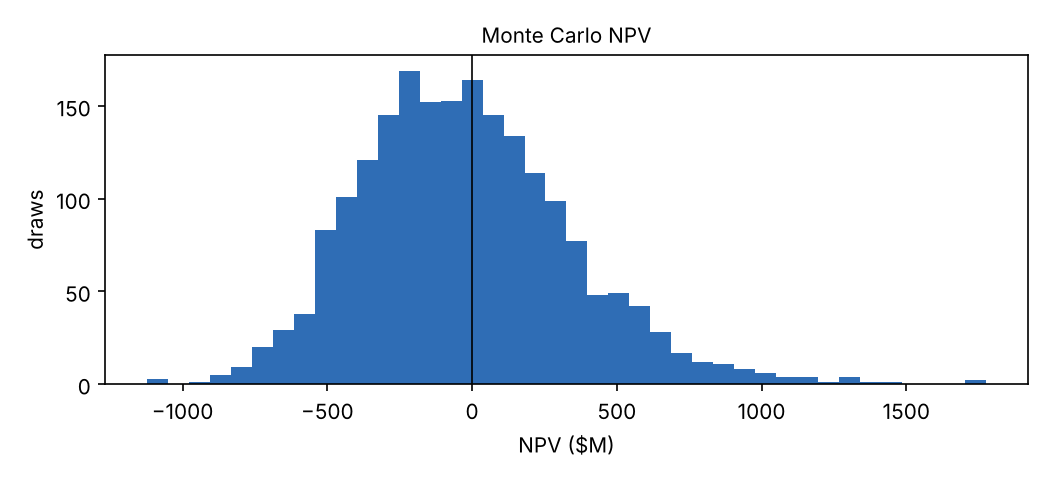
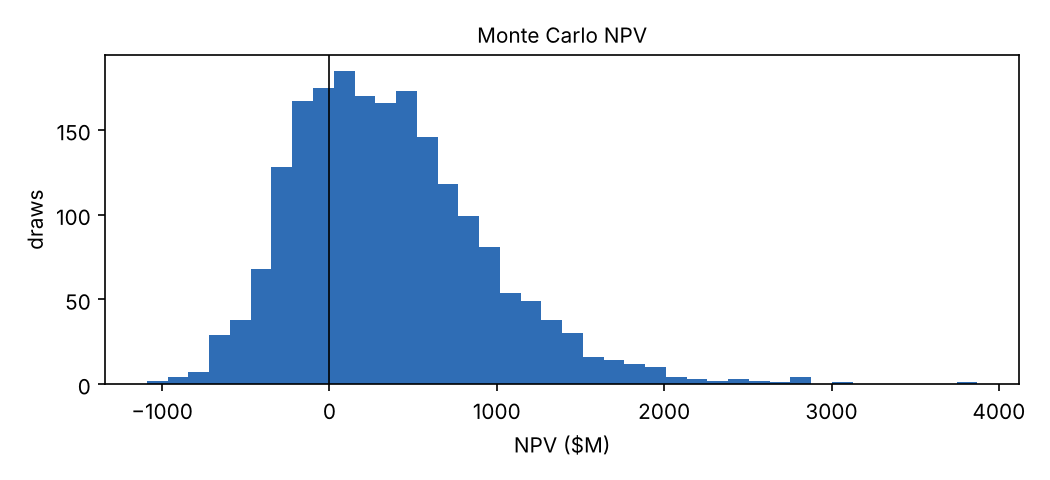
Consistency audit: shared remaining-life rule and framework sync
Counts the remaining life of factories built within the horizon (no new
builds, only while cash stays positive), the same rule as the thermosyphon
and SAF TEAs; syncs the shared framework; regenerates results and README.

Claude-Session: https://claude.ai/code/session_01RgAFQLSZ2jN8BhTUDBM6nH

diff --git a/tea/prefab_homes.py b/tea/prefab_homes.py
@@ -220,21 +220,31 @@ def run(v) -> StandardResult:
     p_btr = p_sqft * (1 - v["btr.price_discount"])
 
     experience = v["learning.first_year_experience"]
-    prev_factories = 0
+    build_years: list[int] = []
+    life = int(v["factory.life"])
+    tail: list[float] = []
+    tail_open = True
     cum_retail_units = 0.0
     cumulative = 0.0
     learning_investment = 0.0
     noak_year = None
     rows: list[YearRow] = []
 
-    for t in range(1, horizon + 1):
+    # Years after the horizon count the remaining life of factories already built (same rule in all
+    # three finalist TEAs): no new factories, factories retire at end of life, stop when cash turns negative.
+    for t in range(1, horizon + life + 1):
+        if t > horizon and not tail_open:
+            break
         k = t - rd
         streams = {s: 0.0 for s in ("homes", "btr", "adus", "energy", "vpp", "service", "panels")}
         capex = 0.0
-        if k >= 1:
+        active = sum(1 for b in build_years if t - b < life)
+        if k >= 1 and (t <= horizon or active > 0):
             phase = "commercial"
-            factories = sched[min(k, len(sched)) - 1]
-            new = max(factories - prev_factories, 0)
+            target = sched[min(k, len(sched)) - 1] if t <= horizon else active
+            new = max(target - active, 0)
+            build_years += [t] * new
+            factories = active + new
             capex = new * v["factory.capex"]
             c = v["factory.capacity"]
             # Contracted BTR volume fills its share of each line first; retail fills the rest at the retail rate.
@@ -243,7 +253,6 @@ def run(v) -> StandardResult:
             btr = min(mature * btr_share + min(new * c * btr_share, new_total), btr_cap, cap)
             retail = mature * (1 - btr_share) * v["factory.utilization"] + max(new_total - new * c * btr_share, 0.0)
             retail = min(retail, max(cap - btr, 0.0))
-            prev_factories = factories
         else:
             phase, factories, btr, retail = "R&D", 0, 0.0, 0.0
         slots = btr + retail
@@ -279,8 +288,15 @@ def run(v) -> StandardResult:
         gross = revenue - cos
         opex = v["company.rd_opex"] if phase == "R&D" else v["company.corporate_opex"] + revenue * v["company.ga_share"]
         ebit = gross - opex
+        if t > horizon:
+            if ebit - capex > 0:
+                tail.append(ebit - capex)
+            else:
+                tail_open = False
+            continue
         cumulative += ebit - capex
         rows.append(YearRow(t, phase, revenue, cos, gross, opex, ebit, cumulative, idx, streams, capex))
+        final_homes = units
 
         experience += slots  # home-equivalents of line time
         cum_retail_units += houses + adus
@@ -288,8 +304,8 @@ def run(v) -> StandardResult:
         if noak_year is None and experience >= v["learning.noak_experience"]:
             noak_year = t
 
-    final_homes = units
     cash = [r.ebit - r.capex for r in rows]
+    npv_horizon = npv(rate, cash)
     went_negative, breakeven_year = False, None
     for r in rows:
         if r.cumulative_cash < 0:
@@ -329,8 +345,8 @@ def run(v) -> StandardResult:
     return StandardResult(
         project="Automated factories for electrified prefab homes",
         years=rows,
-        npv=npv(rate, cash),
-        irr=irr(cash),
+        npv=npv(rate, cash + tail),
+        irr=irr(cash + tail),
         peak_cash_need=-min(0.0, min(r.cumulative_cash for r in rows)),
         breakeven_year=breakeven_year,
         full_scale_revenue=rows[-1].revenue,
@@ -344,7 +360,9 @@ def run(v) -> StandardResult:
             f"Market check: year-{horizon} output is {final_homes:,.0f} homes/yr, vs ~30,000 modular + panelized homes built in the US in 2025 (3% of single-family).",
             "Energy package by region: each region gets the package that saves the owner most once it is financed in the mortgage, or none. Backup-power value is not counted.",
             "Cost multipliers are relative to the site-built construction cost (NAHB 2024: $162/sq ft); 'Cost vs incumbent' in the cash flow includes transport and set.",
-            "Operating profit is before depreciation; factory capex is a separate cash outflow. No taxes, working capital or terminal value.",
+            "Operating profit is before depreciation; factory capex is a separate cash outflow. Pre-tax, no working capital.",
+            f"NPV includes the remaining life of factories built within the horizon (no new factories after it) "
+            f"while cash stays positive; {len(tail)} tail years counted. NPV over the {horizon}-yr horizon alone: ${npv_horizon / 1e6:,.0f}M.",
             "Federal 45L and 25D credits ended in 2026, so no subsidies are counted.",
             "Build-to-rent: proposed federal limits on institutional home buyers could shrink this market; not modeled.",
             "Site system: an adjustable foundation must still meet frost-depth or engineered-foundation rules and count as a 'permanent foundation' for lenders and appraisers; not modeled.",

diff --git a/scripts/run_tea.py b/scripts/run_tea.py
@@ -1,8 +1,8 @@
 """Run any project's TEA through the standard framework.
 
 Usage:
-    python scripts/run_tea.py thermosyphon_platform
-    python scripts/run_tea.py thermosyphon_platform --inputs inputs/my_case.toml --out results/my_case
+    python scripts/run_tea.py saf_msw_ft
+    python scripts/run_tea.py saf_msw_ft --inputs inputs/my_case.toml --out results/my_case
 """
 from __future__ import annotations
 
@@ -18,6 +18,15 @@ from tea.framework.report import write_report  # noqa: E402
 from tea.inputs import base_values, load_meta, load_params  # noqa: E402
 
 
+def load_project_params(inputs: Path) -> dict:
+    """Conventions, then any files listed in the project's [meta] include = [...], then the project file."""
+    params = load_params(ROOT / "inputs" / "conventions.toml")
+    for name in load_meta(inputs).get("include", []):
+        params.update(load_params(ROOT / "inputs" / name))
+    params.update(load_params(inputs))
+    return params
+
+
 def main() -> None:
     ap = argparse.ArgumentParser(description=__doc__)
     ap.add_argument("project", help="module name in tea/, e.g. thermosyphon_platform")
@@ -29,7 +38,7 @@ def main() -> None:
     mod = importlib.import_module(f"tea.{args.project}")
     inputs = Path(args.inputs or ROOT / "inputs" / f"{args.project}.toml")
     out = Path(args.out or ROOT / "results" / args.project)
-    params = {**load_params(ROOT / "inputs" / "conventions.toml"), **load_params(inputs)}
+    params = load_project_params(inputs)
     meta = {**load_meta(ROOT / "inputs" / "conventions.toml"), **load_meta(inputs)}
     v = base_values(params)
     result = mod.run(v)

diff --git a/tea/framework/report.py b/tea/framework/report.py
@@ -74,7 +74,8 @@ def _write_csv(path: Path, rows: list[dict]) -> None:
     if not rows:
         return
     with open(path, "w", newline="") as f:
-        w = csv.DictWriter(f, fieldnames=list(rows[0]))
+        fields = list(dict.fromkeys(k for r in rows for k in r))  # union of keys, first-seen order
+        w = csv.DictWriter(f, fieldnames=fields, restval=0)
         w.writeheader()
         w.writerows(rows)
 

diff --git a/results/prefab_homes/summary.md b/results/prefab_homes/summary.md
@@ -12,15 +12,15 @@
 
 | Metric | Value |
 |---|---|
-| NPV | $360.5M |
-| IRR | 28% |
-| Probability NPV > 0 (Monte Carlo) | 44% |
+| NPV | $876.1M |
+| IRR | 32% |
+| Probability NPV > 0 (Monte Carlo) | 71% |
 | Peak cash need | $237.2M |
 | Cash breakeven year | 10 |
 | Revenue in final year | $2.02B |
 | NOAK reached in year | 8 |
 | Extra cost paid while learning (FOAK to NOAK) | $295.5M |
-| NPV if costs started at NOAK (no learning period) | $537.1M |
+| NPV if costs started at NOAK (no learning period) | $1.05B |
 
 ## Customer cost vs BAU
 
@@ -119,29 +119,29 @@ Revenue in the final year by stream:
 
 | Question | Answer | Base input |
 |---|---|---|
-| Factory capex for NPV = 0 | 36,587,965 | 10,000,000 |
-| Factory utilization for NPV = 0 | 0.451 | 0.8 |
-| Price discount vs conventional modular for NPV = 0 | 0.143 | 0.05 |
+| Factory capex for NPV = 0 | 74,621,496 | 10,000,000 |
+| Factory utilization for NPV = 0 | 0.329 | 0.8 |
+| Price discount vs conventional modular for NPV = 0 | 0.185 | 0.05 |
 | MEP cost reduction for NPV = 0 | no crossing in range | 0.25 |
-| Foundation cost reduction for NPV = 0 | -0.486 | 0.4 |
+| Foundation cost reduction for NPV = 0 | -0.906 | 0.4 |
 
 ## Scenarios
 
 | Scenario | NPV | Final-year revenue | Peak cash need |
 |---|---|---|---|
-| With build-to-rent offtake (25% of line, 7% discount) | $351.7M | $2.08B | $249.0M |
-| With build-to-rent offtake at a 3% discount | $403.9M | $2.11B | $232.7M |
-| Weak retail demand (60% fill), no build-to-rent | $153.3M | $1.54B | $262.0M |
-| Weak retail demand (60% fill), with build-to-rent | $197.4M | $1.72B | $269.0M |
-| Conventional site work and crane set (no site system) | $85.1M | $2.02B | $282.7M |
-| Site system, but joints miss tolerance | $308.7M | $2.02B | $243.1M |
-| Homes only (no add-ons) | $346.1M | $1.99B | $240.8M |
-| + Energy package | $358.8M | $2.02B | $237.3M |
-| + Energy package + VPP | $358.9M | $2.02B | $237.3M |
-| Base case (energy + VPP + service) | $360.5M | $2.02B | $237.2M |
-| Base + panels for other builders | $385.7M | $2.12B | $229.2M |
-| Base + ADU line | $415.0M | $2.06B | $222.5M |
-| All add-ons | $440.3M | $2.15B | $217.8M |
+| With build-to-rent offtake (25% of line, 7% discount) | $870.9M | $2.08B | $249.0M |
+| With build-to-rent offtake at a 3% discount | $955.3M | $2.11B | $232.7M |
+| Weak retail demand (60% fill), no build-to-rent | $503.2M | $1.54B | $262.0M |
+| Weak retail demand (60% fill), with build-to-rent | $592.3M | $1.72B | $269.0M |
+| Conventional site work and crane set (no site system) | $395.8M | $2.02B | $282.7M |
+| Site system, but joints miss tolerance | $784.3M | $2.02B | $243.1M |
+| Homes only (no add-ons) | $850.1M | $1.99B | $240.8M |
+| + Energy package | $871.5M | $2.02B | $237.3M |
+| + Energy package + VPP | $871.9M | $2.02B | $237.3M |
+| Base case (energy + VPP + service) | $876.1M | $2.02B | $237.2M |
+| Base + panels for other builders | $916.9M | $2.12B | $229.2M |
+| Base + ADU line | $968.2M | $2.06B | $222.5M |
+| All add-ons | $1.01B | $2.15B | $217.8M |
 
 ## Sensitivity (one input at a time)
 
@@ -149,21 +149,21 @@ Revenue in the final year by stream:
 
 | Input | Low | NPV at low | High | NPV at high |
 |---|---|---|---|---|
-| `factory.capacity` | 150 | -$5.5M | 500 | $1.29B |
-| `factory.capex` | 5,000,000 | $428.3M | 50,000,000 | -$181.8M |
-| `price.discount_vs_modular` | 0.0 | $553.6M | 0.15 | -$25.7M |
-| `learning.noak_experience` | 2,000 | $459.7M | 20,000 | -$10.2M |
-| `home.sqft` | 1,200 | $133.2M | 2,400 | $587.7M |
-| `bench.modular_discount` | 0.1 | $576.3M | 0.2 | $144.6M |
-| `cost.noak_reduction_structure` | 0.2 | $178.4M | 0.5 | $542.5M |
-| `factory.utilization` | 0.6 | $153.3M | 0.95 | $516.2M |
-| `cost.noak_reduction_finishes` | 0.05 | $202.6M | 0.35 | $518.4M |
-| `finance.company_discount_rate` | 0.08 | $478.0M | 0.15 | $171.1M |
-| `factory.fixed_opex` | 2,000,000 | $430.6M | 6,000,000 | $150.1M |
-| `company.rd_years` | 1 | $506.3M | 3 | $239.5M |
-| `cost.noak_reduction_mep` | 0.1 | $255.2M | 0.4 | $465.7M |
-| `site_system.foundation_reduction` | 0.15 | $258.7M | 0.6 | $441.9M |
-| `company.ga_share` | 0.02 | $401.1M | 0.06 | $238.6M |
+| `factory.capacity` | 150 | $244.9M | 500 | $2.47B |
+| `price.discount_vs_modular` | 0.0 | $1.20B | 0.15 | $226.0M |
+| `home.sqft` | 1,200 | $453.3M | 2,400 | $1.30B |
+| `finance.company_discount_rate` | 0.08 | $1.22B | 0.15 | $389.3M |
+| `bench.modular_discount` | 0.1 | $1.24B | 0.2 | $512.8M |
+| `factory.utilization` | 0.6 | $503.2M | 0.95 | $1.16B |
+| `factory.capex` | 5,000,000 | $943.9M | 50,000,000 | $333.8M |
+| `cost.noak_reduction_structure` | 0.2 | $580.5M | 0.5 | $1.17B |
+| `cost.noak_reduction_finishes` | 0.05 | $615.9M | 0.35 | $1.14B |
+| `learning.noak_experience` | 2,000 | $975.3M | 20,000 | $505.4M |
+| `factory.fixed_opex` | 2,000,000 | $989.5M | 6,000,000 | $535.8M |
+| `cost.noak_reduction_mep` | 0.1 | $702.7M | 0.4 | $1.05B |
+| `site_system.foundation_reduction` | 0.15 | $708.4M | 0.6 | $1.01B |
+| `company.ga_share` | 0.02 | $944.5M | 0.06 | $670.9M |
+| `company.selling_cost` | 0.02 | $985.4M | 0.06 | $712.2M |
 
 ## Monte Carlo
 
@@ -171,7 +171,7 @@ Revenue in the final year by stream:
 
 | P10 | P50 | P90 | P(NPV > 0) |
 |---|---|---|---|
-| -$460.3M | -$50.0M | $454.5M | 44% |
+| -$288.1M | $294.2M | $1.11B | 71% |
 
 ![Monte Carlo](monte_carlo.png)
 
@@ -186,7 +186,7 @@ Revenue in the final year by stream:
 | NOAK margin on build-to-rent homes | 0.15 fraction | 0.10 | yes |
 | Assembled joint tolerance vs no-rework tolerance (prototype test) | 3.00 mm (<= to win) | 3.00 | yes |
 | Revenue at full scale vs big-enough line | 2.02 x | 1.00 | yes |
-| Probability NPV > 0 | 44% | 50% | no |
+| Probability NPV > 0 | 71% | 50% | yes |
 
 ## Scorecard
 
@@ -197,19 +197,20 @@ Economics is scored from P(NPV > 0); the rest are judgment scores set in the inp
 | impact | 20% | 4 |
 | breakthrough | 20% | 3 |
 | feasibility | 15% | 3 |
-| economics | 15% | 3 |
+| economics | 15% | 4 |
 | scalability | 10% | 4 |
 | demand | 10% | 4 |
 | white space | 5% | 2 |
 | validation | 5% | 2 |
-| **Weighted total** | | **3.30** |
+| **Weighted total** | | **3.45** |
 
 ## Notes
 
 - Market check: year-15 output is 6,300 homes/yr, vs ~30,000 modular + panelized homes built in the US in 2025 (3% of single-family).
 - Energy package by region: each region gets the package that saves the owner most once it is financed in the mortgage, or none. Backup-power value is not counted.
 - Cost multipliers are relative to the site-built construction cost (NAHB 2024: $162/sq ft); 'Cost vs incumbent' in the cash flow includes transport and set.
-- Operating profit is before depreciation; factory capex is a separate cash outflow. No taxes, working capital or terminal value.
+- Operating profit is before depreciation; factory capex is a separate cash outflow. Pre-tax, no working capital.
+- NPV includes the remaining life of factories built within the horizon (no new factories after it) while cash stays positive; 14 tail years counted. NPV over the 15-yr horizon alone: $360M.
 - Federal 45L and 25D credits ended in 2026, so no subsidies are counted.
 - Build-to-rent: proposed federal limits on institutional home buyers could shrink this market; not modeled.
 - Site system: an adjustable foundation must still meet frost-depth or engineered-foundation rules and count as a 'permanent foundation' for lenders and appraisers; not modeled.

diff --git a/README.md b/README.md
@@ -33,9 +33,10 @@ forklift-set components that lock together with almost no onsite finishing.
 
 | Metric | Value |
 |---|---|
-| NPV (10%, 15 yr) | $361M |
-| IRR | 28% |
-| P(NPV > 0), Monte Carlo | 43% |
+| NPV (10%), incl. remaining factory life | $876M |
+| NPV over the 15-yr horizon only | $360M |
+| IRR | 32% |
+| P(NPV > 0), Monte Carlo | 71% |
 | Peak cash need | $237M |
 | Cash breakeven | year 10 |
 | Year-15 revenue | $2.02B (about 6,300 homes/yr from 33 factories) |
@@ -50,9 +51,9 @@ the buyer about $8,500 of rent or double payments vs modular.
 
 | Scenario | NPV |
 |---|---|
-| Conventional site work and crane set | $85M |
-| Site system, but assembled joints miss the no-rework tolerance | $309M |
-| Site system working (base) | $361M |
+| Conventional site work and crane set | $396M |
+| Site system, but assembled joints miss the no-rework tolerance | $784M |
+| Site system working (base) | $876M |
 
 Most of the gain comes from the foundation and the forklift set. The joint-tolerance
 kill metric (assembled joints within ~3 mm, to be proven in a prototype) protects
@@ -60,11 +61,11 @@ the finishing savings and the extra month of speed.
 
 **What decides it** (break-evens for NPV = 0):
 
-- Factory capex at most $37M per 250-home/yr plant.
-- Utilization at least 45%. Katerra and Veev failed on demand and overhead, not on robots.
-- Price discount vs modular at most 14%.
+- Factory capex at most $75M per 250-home/yr plant.
+- Utilization at least 33%. Katerra and Veev failed on demand and overhead, not on robots.
+- Price discount vs modular at most 18.5%.
 - Tornado leaders: factory capacity, factory capex, price discount, and how many homes it takes to reach NOAK.
-- The Monte Carlo median is still negative (P50 −$49M): the base case sits near the optimistic end of the factory-capex and learning ranges.
+- Monte Carlo P10 / P50 / P90: −$288M / $294M / $1.11B.
 
 ## Build-to-rent offtake (scenario)
 
@@ -74,15 +75,15 @@ starts were 68,000 in 2025 (NAHB), so our ~2,000 homes/yr would be about 3% of i
 
 | Scenario | NPV |
 |---|---|
-| Retail only (base) | $361M |
-| + build-to-rent at 7% discount | $352M |
-| + build-to-rent at 3% discount | $404M |
-| Weak retail demand (60% fill), retail only | $153M |
-| Weak retail demand (60% fill), + build-to-rent | $197M |
+| Retail only (base) | $876M |
+| + build-to-rent at 7% discount | $871M |
+| + build-to-rent at 3% discount | $955M |
+| Weak retail demand (60% fill), retail only | $503M |
+| Weak retail demand (60% fill), + build-to-rent | $592M |
 
 Build-to-rent is insurance, not profit: at a 7% discount it beats retail-only only
-when retail demand fills less than ~77% of the line, or when the discount is under
-~6%. It lowers the utilization needed for NPV = 0 from 45% to 35%. The anchor
+when retail demand fills less than ~79% of the line. It lowers the utilization
+needed for NPV = 0 from 33% to 18%. The anchor
 contracts could also speed each new factory's ramp, which is not credited here.
 Policy risk: proposed federal limits on institutional home buyers could shrink
 this market.
@@ -101,17 +102,17 @@ mortgage (no federal credit), or none.
 | Mountain / Midwest (cheap power, net billing) | 25% | −$359/yr | −$927/yr | none |
 
 The package fits best where the fewest new homes are built. It adds only about
-$13M of NPV. Backup-power value is not counted.
+$22M of NPV. Backup-power value is not counted.
 
 ## Revenue add-ons (NPV, modeled)
 
 | Scenario | NPV |
 |---|---|
-| Homes only | $346M |
-| Base (regional energy + VPP + service) | $361M |
-| Base + panels sold to other builders | $386M |
-| Base + ADU line | $415M |
-| All add-ons | $440M |
+| Homes only | $850M |
+| Base (regional energy + VPP + service) | $876M |
+| Base + panels sold to other builders | $917M |
+| Base + ADU line | $968M |
+| All add-ons | $1.01B |
 
 **Not yet modeled, worth testing next:** mortgage origination, factory software licensing, disaster-rebuild
 contracts, wildfire-hardened homes with insurer partnerships, and climate-specific
@@ -119,7 +120,9 @@ variants.
 
 ## Caveats
 
-- Pre-tax, real 2026 USD; no depreciation, working capital or terminal value.
+- Pre-tax, real 2026 USD; no depreciation or working capital. NPV counts the remaining
+  life of factories built within the horizon (no new factories after it) while cash stays
+  positive, the same rule used in the thermosyphon and SAF TEAs.
 - Costs are benchmarked to NAHB 2024 site-built construction cost ($162/sq ft); NOAK reductions are targets, not measured.
 - Federal 45L and 25D credits ended in 2026 and are not counted.
 - Solar self-use share (60%) and battery cycling are assumptions, not an hourly load model.
@@ -136,3 +139,9 @@ scripts/run_tea.py
 results/prefab_homes/   summary.md, cashflow.csv, sensitivity.csv, tornado.png, monte_carlo.png
 docs/framework.md
 ```
+
+## Consistency audit (Nov 2026)
+
+- Shared remaining-life rule with the thermosyphon and SAF TEAs: after the 15-year horizon, factories already built run out their 15-year life with no new builds, counted only while cash stays positive. Horizon-only NPV is still reported in `results/prefab_homes/summary.md`.
+- Synced the shared framework (capex column, extra tables, include-aware `run_tea.py`).
+- Already consistent: 10% real discount rate, 3% G&A, pre-tax, $1B big-enough line, 2,000 Monte Carlo draws.
